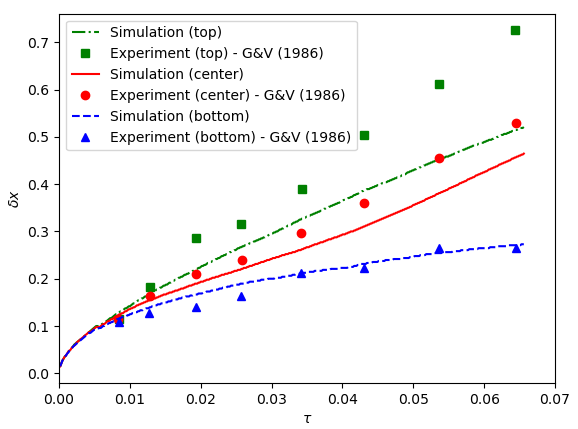
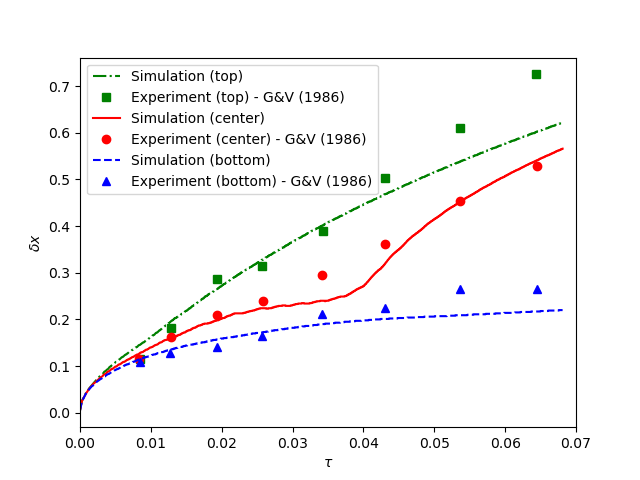
Update results and images

diff --git a/examples/multiphysics/melting-cavity/melting-cavity.py b/examples/multiphysics/melting-cavity/melting-cavity.py
@@ -34,12 +34,9 @@ H=0.714
 alpha =  0.040516842071415184 # Used for the time scaling
 St = 0.041 # Used for the time scaling
 time_scaling = St * alpha 
-y_top		= 0.999 * H
+y_top	= 0.999 * H
 y_mid	= 0.5 * H
 y_bot	= 0.001 * H
-#y_top		= 0.85 * H
-#y_mid	= 0.6 * H
-#y_bot	= 0.18 * H
 
 #Set temperature to search for maximum x
 temperature_limit = 29.75

diff --git a/doc/source/examples/multiphysics/melting-cavity/melting-cavity.rst b/doc/source/examples/multiphysics/melting-cavity/melting-cavity.rst
@@ -2,7 +2,7 @@
 Melting Cavity
 ==========================
 
-This example simulates a two-dimensional gallium melting cavity `[1] <https://doi.org/10.1016/j.compfluid.2018.03.037>`_.
+This example simulates a two-dimensional gallium melting cavity and is inspired by the work of Blais and Ilinca `[1] <https://doi.org/10.1016/j.compfluid.2018.03.037>`_.
 
 .. _two-dimensional gallium melting cavity: https://www.sciencedirect.com/science/article/pii/S0045793018301415
 
@@ -25,7 +25,9 @@ Files Used in This Example
 Both files mentioned below are located in the example's folder (``examples/multiphysics/melting-cavity``).
 
 - Parameter file: ``melting-cavity.prm``
-- Postprocessing Python script: ``melting_cavity.py``
+- Postprocessing Python script: ``melting-cavity.py``
+- Python script to calculate the dimensionless numbers: ``dimensionless_number_calculator.py``
+
 
 -----------------------------
 Description of the Case
@@ -44,9 +46,9 @@ The incompressible Navier-Stokes equations with a Boussinesq approximation for t
         \nabla \cdot {\bf{u}} = 0
 
     .. math::
-        \rho \frac{\partial {\bf{u}}}{\partial t} + \rho ({\bf{u}} \cdot \nabla) {\bf{u}} = -\nabla p + \nabla \cdot {\bf{\tau}} - \rho \beta {\bf{g}} (T - T_0)
+        \rho \frac{\partial {\bf{u}}}{\partial t} + \rho ({\bf{u}} \cdot \nabla) {\bf{u}} = -\nabla p + \nabla \cdot {\bf{\tau}} - \rho \beta {\bf{g}} (T - T_{ref})
 
-where :math:`\beta` and :math:`T_0` denote thermal expansion coefficient and a reference temperature, respectively.
+where :math:`\beta` and :math:`T_{ref}` denote thermal expansion coefficient and a reference temperature, respectively.
 
 A two-dimensional block of gallium (initially in solid phase) is heated from its left wall at :math:`t = 0` s. Its initial temperature is close to (but slightly smaller than) the melting point and the temperature of the left wall is higher than the melting point. Hence, the block starts melting from the left wall. In the melted zone, close to the left wall, the buoyant force (natural convection) creates vortices inside the liquid.
 
@@ -64,7 +66,7 @@ where :math:`\rho` is the fluid density, :math:`\beta` denotes the thermal expan
 
 .. note:: 
     All the four boundary conditions are ``noslip``, and an external 
-    gravity field of :math:`-0.00516` is applied in the :math:`y` direction. For the heat transfer boundary conditions the temperatures of the left (:math:`T_l = 108 \, ^{\circ} \text{C}`) and the right (:math:`T_l = 104.9 \, ^{\circ} \text{C}`) walls are defined.
+    gravity field of :math:`-1` is applied in the :math:`y` direction. For the heat transfer boundary conditions the temperatures of the left (:math:`T_l = 38 \, ^{\circ} \text{C}`) and the right (:math:`T_l = 28 \, ^{\circ} \text{C}`) walls are defined.
 
 
 --------------
@@ -74,29 +76,30 @@ Parameter File
 Simulation Control
 ~~~~~~~~~~~~~~~~~~
 
-Time integration is handled by a 2nd order backward differentiation scheme 
-`(bdf2)`, for a :math:`40000` s simulation time with an initial 
-time step of :math:`0.1` second.
+Time integration is handled by a first order backward differentiation scheme 
+`(bdf1)`, for a :math:`41` s simulation time with an initial 
+time step of :math:`0.01` second.
 
 .. note::   
     This example uses an adaptive time-stepping method, where the 
-    time-step is modified during the simulation to keep the maximum value of the CFL condition below a given threshold (0.5 here). Using ``output control = time``, and ``output time = 100`` the simulation results are written every 100 s.
+    time-step is modified during the simulation to keep the maximum value of the CFL condition below a given threshold (0.9 here). 
 
 .. note::   
-    Note that the melting process is slow, and the velocity magnitude is small in the melted region. Hence, we expect large time-steps and a long simulation.
+    Note that the melting process is slow compared to the time-scale of the velocity. Hence we expect a large number of time-steps and a long simulation.
 
 .. code-block:: text
 
     subsection simulation control
-      set method                       = bdf2
-      set time end                     = 40000
-      set time step                    = 0.1
-      set max cfl                      = 0.5
-      set adaptative time step scaling = 1.3
+      set method                       = bdf1
+      set time end                     = 41
+      set time step                    = 0.01
+      set adapt                        = true 
+      set max cfl                      = 0.8
+      set adaptative time step scaling = 1.1
       set output name                  = melting
-      set output control               = time
-      set output time                  = 100
-      set output path                  = ./output/      
+      set output control               = iteration
+      set output frequency             = 100
+      set output path                  = ./output/
     end
 
 Multiphysics
@@ -115,7 +118,7 @@ The ``multiphysics`` subsection enables to turn on `(true)` and off `(false)` th
 Initial Conditions
 ~~~~~~~~~~~~~~~~~~
 
-In the ``initial condition``, the initial velocity and initial temperature in the simulation domain are defined. The initial velocity is equal to zero as the block is in the solid phase at :math:`t = 0` s. The initial temperature is chosen slightly (:math:`0.1 \, ^{\circ} \text{C}`) smaller than the melting point temperature.
+In the ``initial condition``, the initial velocity and initial temperature in the simulation domain are defined. The initial velocity is equal to zero as the block is in the solid phase at :math:`t = 0` s. 
 
 .. code-block:: text
 
@@ -125,7 +128,7 @@ In the ``initial condition``, the initial velocity and initial temperature in th
         set Function expression = 0; 0; 0
       end
       subsection temperature
-        set Function expression = 104.9
+        set Function expression = 28
       end
     end
 
@@ -139,53 +142,58 @@ The ``source term`` subsection defines the gravitational acceleration. The value
     subsection source term
       set enable = true
       subsection xyz
-        set Function expression = 0 ; -0.00516 ; 0
+        set Function expression = 0 ; -1 ; 0
       end
     end
 
 Physical Properties
 ~~~~~~~~~~~~~~~~~~~
 
-The solid block melts into liquid in this example, hence in the ``physical properties`` subsection, we define the phase change parameters. Similar to gravitational acceleration, the latent enthalphy of phase change is selected to satisfy the value of Stefan number. A :math:`\Delta T = 0.1 \, ^{\circ} \text{C}` is selected between the solidus and liquidus temperatures. For more information about the phase change model in Lethe, visit the :doc:`Stefan problem <../stefan-problem/stefan-problem>` example. The kinematic viscosity of the solid phase is chosen :math:`\approx 10000` times larger than the kinematic viscosity of the liquid phase.
+The solid block melts into liquid in this example, hence in the ``physical properties`` subsection, we define the phase change parameters. Similar to gravitational acceleration, the latent enthalphy of phase change is selected to satisfy the value of Stefan number. A :math:`\Delta T = 0.2 \, ^{\circ} \text{C}` is selected between the solidus and liquidus temperatures. For more information about the phase change model in Lethe, visit the :doc:`Stefan problem <../stefan-problem/stefan-problem>` example. The kinematic viscosity of the solid phase is chosen :math:`\approx 10000` times larger than the kinematic viscosity of the liquid phase. The reference temperature is set to the liquidus temperature and a phase change thermal expansion model is used to ensure that there is no Boussinesq forcing term in the solid phase.
 
 
 .. code-block:: text
 
     subsection physical properties
       set number of fluids = 1
+      set reference temperature = 29.8
       subsection fluid 0
         set thermal conductivity model = constant
-        set thermal conductivity       = 60
+        set thermal conductivity       = 0.040516842071415184
     
-        set thermal expansion model = constant
-        set thermal expansion       = 0.0002
+        set thermal expansion model = phase_change
+        set thermal expansion       = 1
     
         set rheological model   = phase_change
         set specific heat model = phase_change
     
-        set density = 7500
+        set density = 1
     
         subsection phase change
           # Enthalpy of the phase change
-          set latent enthalpy = 14634.1463
+          set latent enthalpy = 200
     
           # Temperature of the liquidus
-          set liquidus temperature = 105.1
+          set liquidus temperature = 29.8
     
           # Temperature of the solidus
-          set solidus temperature = 105
+          set solidus temperature = 29.6
     
           # Specific heat of the liquid phase
-          set specific heat liquid = 200
+          set specific heat liquid = 1
     
           # Specific heat of the solid phase
-          set specific heat solid = 200
+          set specific heat solid = 1
     
           # Kinematic viscosity of the liquid phase
-          set viscosity liquid = 0.00000075
+          set viscosity liquid = 0.0007366698558439125
     
           # Kinematic viscosity of the solid phase
-          set viscosity solid = 0.008
+          set viscosity solid = 10
+    
+          set thermal expansion liquid       = 1
+          set thermal expansion solid       = 0
+    
         end
       end
     end
@@ -200,15 +208,15 @@ Launching the simulation is as simple as specifying the executable name and the 
 .. code-block:: text
   :class: copy-button
 
-  mpirun -np 12 lethe-fluid melting-cavity.prm
+  mpirun -np 16 lethe-fluid melting-cavity.prm
 
-to run the simulation using twelve CPU cores. Feel free to use more.
+to run the simulation using sixteen CPU cores. Feel free to use more.
 
 
 .. warning:: 
     Make sure to compile lethe in `Release` mode and 
     run in parallel using mpirun. This simulation takes
-    :math:`\approx` 24 hours on 12 processes.
+    :math:`\approx` 1 hours on 16 processes.
 
 
 -------

diff --git a/doc/source/parameters/cfd/physical_properties.rst b/doc/source/parameters/cfd/physical_properties.rst
@@ -8,7 +8,8 @@ Physical Properties
 .. code-block:: text
 
   subsection physical properties
-    set number of fluids = 1
+    set number of fluids      = 1
+    set reference temperature = 0
     subsection fluid 0
       # Rheology
       set rheological model          = newtonian
@@ -75,6 +76,8 @@ Physical Properties
  
 * The ``number of fluids`` parameter controls the number of fluids in the simulation. This parameter is set to ``1`` except in `Two Phase Simulations`_ .
 
+* The ``reference temperature`` parameter specifies the reference temperature used in the calculation of some physical properties or the thermal expansion force.
+
   * The ``rheological model`` parameter sets the choice of rheological model. The choices are between ``newtonian``, ``power-law``, ``carreau`` and ``phase_change``. For more details on the rheological models, see  `Rheological Models`_ .
 
   * The ``kinematic viscosity`` parameter is the kinematic viscosity of the newtonian fluid in units of :math:`\text{Length}^{2} \cdot \text{Time}^{-1}`. In SI, this is :math:`\text{m}^{2} \cdot \text{s}^{-1}`. This viscosity is only used when ``rheological model = newtonian``.
@@ -91,15 +94,15 @@ Physical Properties
 
   * The ``thermal conductivity`` parameter is the thermal conductivity coefficient of the fluid with units of :math:`\text{Power} \cdot \text{Temperature}^{-1} \cdot \text{Length}^{-1}`.
 
-  * The ``thermal expansion model`` specifies the model used to calculate the thermal expansion coefficient. At the moment, only a constant thermal expansion is supported.
+  * The ``thermal expansion model`` specifies the model used to calculate the thermal expansion coefficient. At the moment, ``constant`` and ``phase change`` thermal expansion are supported. For more details on the thermal expansion models, see `Thermal Expansion Models`_.
 
   * The ``thermal expansion`` parameter is the thermal expansion coefficient of the fluid with dimension of :math:`\text{Temperature}^{-1}`. It is used to define the buoyancy-driven flow (natural convection) using the Boussinesq approximation, which leads to the definition of the following source term that is added to the Navier-Stokes equation:
 
     .. math::
 
-      {\bf{F_{B}}} = -\beta {\bf{g}} (T-T_0)
+      {\bf{F_{B}}} = -\beta {\bf{g}} (T-T_{ref})
 
-    where :math:`F_B` denotes the buoyant force source term, :math:`\beta` is the thermal expansion coefficient, :math:`T` is temperature, and :math:`T_0` is the base temperature.
+    where :math:`F_B` denotes the buoyant force source term, :math:`\beta` is the thermal expansion coefficient, :math:`T` is temperature, and :math:`T_{ref}` is the reference temperature. This is only used when a constant thermal expansion model is used.
 
   * The ``tracer diffusivity model`` specifies the model used to calculate the tracer diffusivity. At the moment, only a constant tracer diffusivity is supported.
 
@@ -461,9 +464,9 @@ where :math:`T` is the temperature, :math:`T_0` is the temperature at the previo
 where :math:`H_0` is a reference enthalpy, taken to be 0, and :math:`c^{*}_p` is:
 
 .. math::
-  c^{*}_p  = \begin{cases} C_{p,s}\\
-              \frac{C_{p,s}+C_{p,l}}{2}+\frac{h_l}{T_l-T_s}\\
-              C_{p,l}
+  c^{*}_p  = \begin{cases} C_{p,s} \text{if}\;T<T_s\\
+              \frac{C_{p,s}+C_{p,l}}{2}+\frac{h_l}{T_l-T_s} \text{if}\;T\in[T_s,T_l]\\
+              C_{p,l} \text{if} T>T_l
               \end{cases}
 
 where :math:`C_{p,s}` and :math:`C_{p,l}` are the solid and liquid specific heat, respectively. :math:`h_l` is the latent enthalpy (enthalpy related to the phase change), :math:`T_l` and :math:`T_s` are the liquidus and solidus temperature. The underlying hypothesis of this model is that the melting and the solidification occurs over a phase change interval. Melting will occur between :math:`T_s` and :math:`T_l` and solidification will occur between :math:`T_l` and :math:`T_s`.
@@ -499,6 +502,42 @@ This model is parameterized using the following section:
 
 * The ``specific heat solid`` is :math:`C_{p,s}`
 
+
+Thermal Expansion Models
+~~~~~~~~~~~~~~~~~~~~~~~~~
+Lethe supports two types of thermal expansion heat models. Setting ``thermal expansion model=constant`` sets a constant thermal expansion. Lethe also supports a ``phase_change`` thermal expansion model. This model can simulate the melting and solidification of a material with natural convection. It works by defining a different value of the thermal expansion coefficient depending on the value of the temperature:
+
+.. math::
+  \beta =   c^{*}_p  = \begin{cases} \beta_s, \text{if}\;T \leq T_l\\
+              \beta_l, \text{if}\;T > T_l
+              \end{cases}
+
+
+This model is parameterized using the following section:
+
+.. code-block:: text
+
+  subsection phase change
+    # Temperature of the liquidus
+    set liquidus temperature = 1
+  
+    # Temperature of the solidus
+    set solidus temperature  = 0
+  
+    # Thermal expansion of the liquid phase
+    set thermal expansion liquid = 0
+  
+    # Thermal expansion of the solid phase
+    set thermal expansion solid  = 1
+  end
+
+* The ``liquidus temperature`` is :math:`T_l`
+
+* The ``solidus temperature`` is :math:`T_s`
+
+* The ``thermal expansion liquid`` is :math:`\beta_{l}`
+
+* The ``thermal expansion solid`` is :math:`\beta_{s}`
 
 Interface Physical Property Models
 ***********************************
